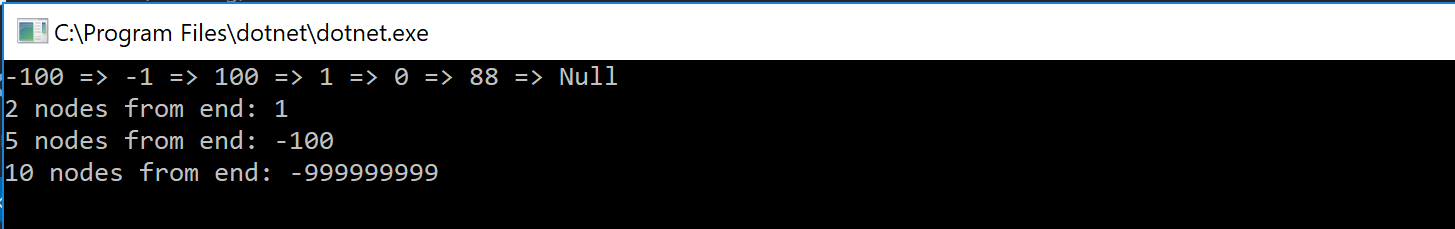
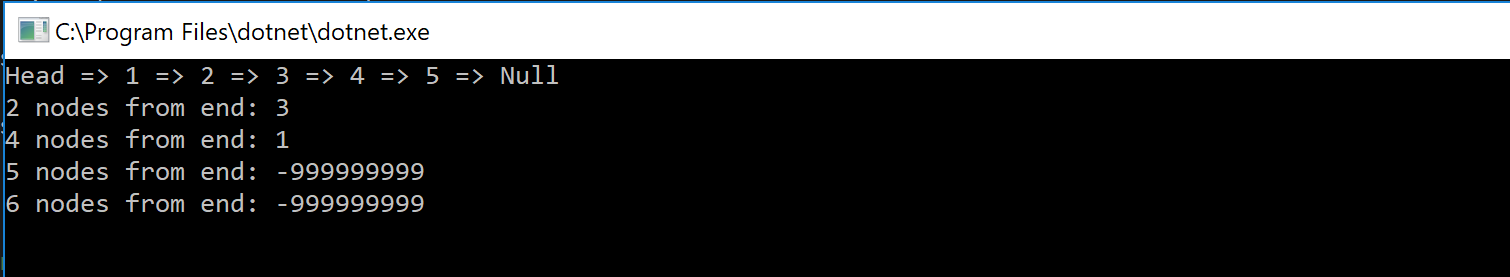
added new FindFromEnd function, unit tests, and documentation

diff --git a/linked_list/linked_list/Program.cs b/linked_list/linked_list/Program.cs
@@ -19,26 +19,29 @@ namespace linked_list
             //list.InsertAfter(2, 999);
             //list.InsertBefore(2, 888);
             //list.Print();
+            //testList.Append(88);
 
             LinkedList testList = new LinkedList();
-            int[] testPoints = new int[] { 0, 1, 100, -1, -100 };
+            int[] testPoints = new int[] { 5, 4, 3, 2, 1 };
             foreach (int point in testPoints)
             {
                 testList.Insert(point);
             }
-            testList.Append(88);
-            while (testList.Current.Next != null)
-            {
-                testList.Current = testList.Current.Next;
-            }
+
             testList.Print();
 
             int kthFromEndValue = testList.FindFromEnd(2);
             Console.WriteLine($"2 nodes from end: {kthFromEndValue}");
+
+            kthFromEndValue = testList.FindFromEnd(4);
+            Console.WriteLine($"4 nodes from end: {kthFromEndValue}");
+
             kthFromEndValue = testList.FindFromEnd(5);
             Console.WriteLine($"5 nodes from end: {kthFromEndValue}");
-            kthFromEndValue = testList.FindFromEnd(10);
-            Console.WriteLine($"10 nodes from end: {kthFromEndValue}");
+
+            kthFromEndValue = testList.FindFromEnd(6);
+            Console.WriteLine($"6 nodes from end: {kthFromEndValue}");
+
             Console.ReadLine();
         }
     }

diff --git a/linked_list/linked_list/Classes/LinkedList.cs b/linked_list/linked_list/Classes/LinkedList.cs
@@ -57,7 +57,7 @@ namespace linked_list.Classes
             if (Head != null)
             {
                 Current = Head;
-                Console.Write($"{ Current.Value } => ");
+                Console.Write($"Head => {Current.Value} => ");
                 while (Current.Next != null)
                 {
                     Current = Current.Next;
@@ -161,7 +161,7 @@ namespace linked_list.Classes
         public int FindFromEnd(int k)
         {
             // count nodes in list
-            int counter = 0;
+            int counter = 1;
             Current = Head;
             while(Current.Next != null)
             {
@@ -170,7 +170,7 @@ namespace linked_list.Classes
             }
 
             // check whether list contains more than k elements
-            if (k > counter)
+            if (k >= counter)
             { return -999999999; }
 
             // set target node #
@@ -178,11 +178,12 @@ namespace linked_list.Classes
 
             // traverse from beginning to target node
             Current = Head;
-            while(counter > 0)
+            while(counter > 1)
             {
                 Current = Current.Next;
                 counter--;
             }
+            
             return Current.Value;
         }
     }

diff --git a/linked_list/UnitTests/UnitTest1.cs b/linked_list/UnitTests/UnitTest1.cs
@@ -190,5 +190,21 @@ namespace UnitTests
             testList.Current = testList.Current.Next;
             Assert.Equal(88, testList.Current.Value);
         }
+
+        [Theory]
+        [InlineData(2, 4)]
+        [InlineData(5, 1)]
+        [InlineData(6, -999999999)]
+        public void FindFromEnd(int k, int value)
+        {
+            LinkedList testList = new LinkedList();
+            int[] testPoints = new int[] { 6, 5, 4, 3, 2, 1 };
+            foreach (int point in testPoints)
+            {
+                testList.Insert(point);
+            }
+            Assert.Equal(value, testList.FindFromEnd(k));
+        }
+
     }
 }

diff --git a/linked_list/README.md b/linked_list/README.md
@@ -17,6 +17,7 @@ Create a LinkedList class with the following properties and methods:
  - Print (method): Console prints the values of all nodes in the list
  - InsertBefore (method): Instantiates a new node (of specified value) and inserts into the list BEFORE an existing node (of other specified value). If no match exists, no node is inserted.
  - InsertAfter (method): Same as InsertBefore, except it inserts the new node AFTER the existing node (or none if no match);
+ - FindFromEnd (method): 
   *** default constructor only - no custom constructor defined ***
 
 ## Approach & Efficiency
@@ -27,13 +28,15 @@ LinkedList.InsertBefore and .InsertAfter have same time and space complexity as 
 
 ## Solution
 This challenge included a set of unit tests verifying that:
- - Includes returns 'false' when the checked value isn't present in the linked list
- - Includes returns 'true' when a multi-node list contains the checked value ***
- - Includes returns 'true' when a single node list contains the checked value
- - Insert adds new nodes ***
- - Insert assigns the correct value of 'Next' when instantiating new 'Head'
- - Node constructor properly creates new nodes ***
+  - Includes returns 'false' when the checked value isn't present in the linked list
+  - Includes returns 'true' when a multi-node list contains the checked value ***
+  - Includes returns 'true' when a single node list contains the checked value
+  - Insert adds new nodes ***
+  - Insert assigns the correct value of 'Next' when instantiating new 'Head'
+  - Node constructor properly creates new nodes ***
+  - FindFromEnd returns correct node's value if present, or -999999999 if search parameter exceeds list length
 
    *** checked 0, positive integers of multiple orders, negative values of multiple orders, positive double converted to int
 
  ![unit tests](assets/unit-tests-all-pass.PNG)
+ ![FindFromEnd unit tests](assets/FindFromEnd-unit-tests-all-pass.PNG)
